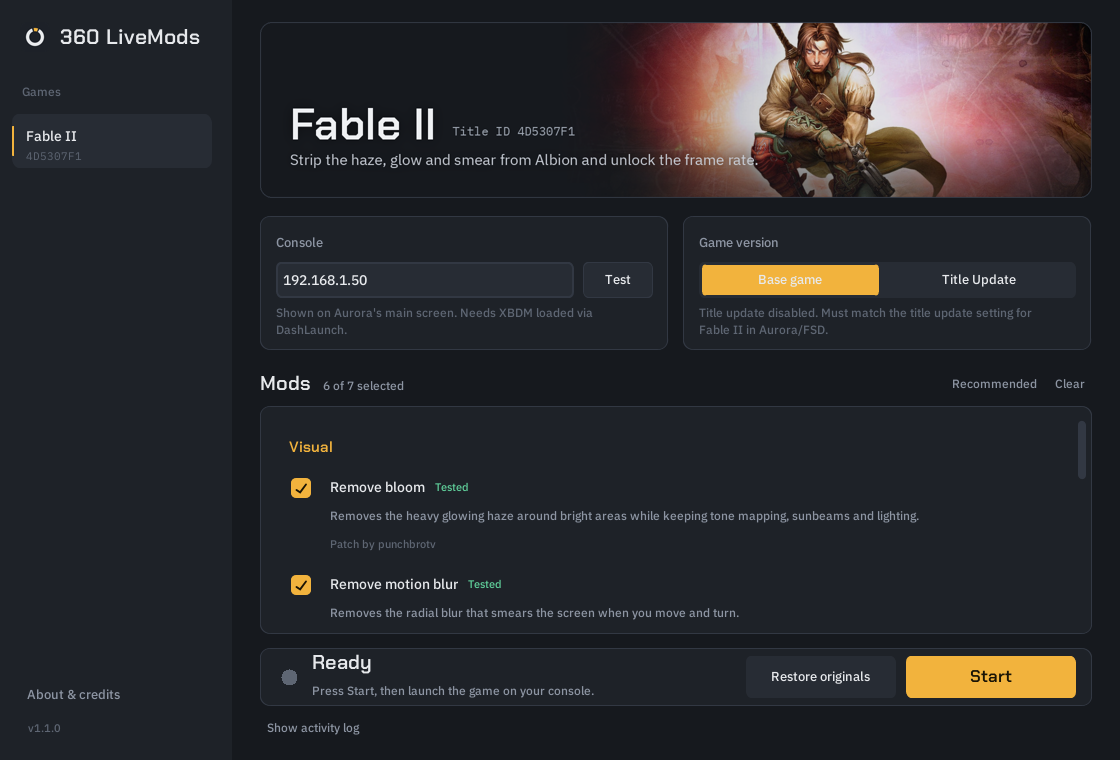
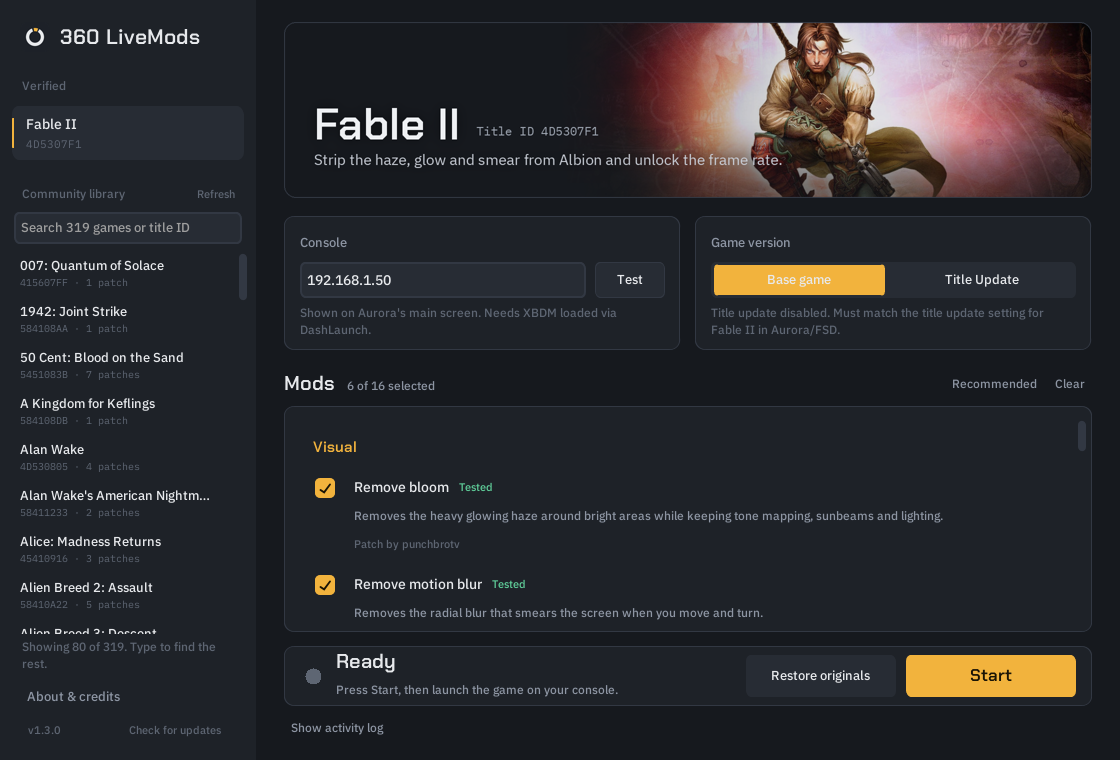
Library engine: dashboard/title hints, stale-hint protection, merge identical builds only; UI polish; screenshots
Claude-Session: https://claude.ai/code/session_01UoNjdapqW9fjrE7JTh5rqk

diff --git a/livemods/libengine.py b/livemods/libengine.py
@@ -34,7 +34,10 @@ MAX_UNKNOWN_SCANS = 2     # builds that never match are scanned at most this man
 POLL = 0.1
 CHANGE_CHECK_BYTES = 0x100000   # while scanning, check every MB that the game is still the same
 
-_DASHBOARD = re.compile(r"aurora|freestyle|\\fsd|fsd3|xexmenu|dashboard|\\dash\.xex|xshell", re.I)
+# Dashboards are recognised by their executable's name, or by the name of the folder it runs from
+# (never by words anywhere in the path: a game kept in "\FSD Games\..." is still a game).
+_DASHBOARD_EXE = re.compile(r"^(aurora|fsd\d?|freestyle\w*|xexmenu|dash|xshell|dashboard)\.xex$", re.I)
+_DASHBOARD_DIR = {"aurora", "freestyle", "freestyledash", "fsd", "fsd2", "fsd3", "xexmenu", "dashboard"}
 _GOD_TITLE = re.compile(r"\\content\\[0-9a-f]{16}\\([0-9a-f]{8})\\", re.I)
 
 
@@ -83,7 +86,8 @@ class LibraryEngine(Engine):
         """Do we know the original bytes at every patch site in this build's code?"""
         lo, hi = rec.get("code", (0, 0))
         orig = rec.get("originals", {})
-        return all(f"{w.address:08X}" in orig for p in build.patches for w in p.writes if lo <= w.address < hi)
+        return all(f"{w.address:08X}" in orig for p in build.patches for w in p.writes
+                   if lo <= w.address and w.address + len(w.data) <= hi)
 
     @staticmethod
     def _thunks(rec: dict) -> list[int]:
@@ -106,11 +110,16 @@ class LibraryEngine(Engine):
                 path = t.running_path() or ""
         except Exception:  # noqa: BLE001 - only a hint
             path = ""
-        where = f"{path} \\{snap.module.name}"
-        if _DASHBOARD.search(where):
-            return "dashboard", None
+        exe = path.replace("/", "\\").rsplit("\\", 1)[-1].lower()
+        if exe.endswith((".xex", ".exe")) and exe != snap.module.name.lower():
+            path = ""                       # describes something else (e.g. the previous title)
         m = _GOD_TITLE.search(path)
-        return ("title", m.group(1).upper()) if m else ("", None)
+        if m:
+            return "title", m.group(1).upper()
+        folder = path.replace("/", "\\").rsplit("\\", 2)[-2].lower() if path.count("\\") >= 1 else ""
+        if _DASHBOARD_EXE.match(snap.module.name) or folder in _DASHBOARD_DIR:
+            return "dashboard", None
+        return "", None
 
     # -------------------------------------------------------------- identify
     def _identify(self, host: str, x: XbdmClient, snap: Snap):
@@ -170,7 +179,9 @@ class LibraryEngine(Engine):
         rec = record_from_scan(scan, snap.module)
         hit = self._match(rec, title)
         if hit is None:
-            rec["unknown_scans"] = int((old or {}).get("unknown_scans", 0)) + 1
+            prev = old or {}
+            fresh = prev.get("seen", 0) < self.library.fetched_at      # library updated since
+            rec["unknown_scans"] = 1 if fresh else int(prev.get("unknown_scans", 0)) + 1
             self.cache.put(snap.fp, rec)
             self._emit("warn", f"The game that started (build {scan.hashes[0x10000]:016X}) isn't a version of "
                                f"{title.name} in the community library, so nothing was changed. If it is "
@@ -327,28 +338,28 @@ class LibraryEngine(Engine):
         x: XbdmClient | None = None
         first = True
         present: str | None = None          # fingerprint currently running
-        skip: set[str] = set()              # leave alone while it keeps running
-        dashboards: set[str] = set()        # leave alone for the whole run
-        hints: dict[str, tuple[str, str | None]] = {}
+        skip: set[str] = set()              # leave alone while it keeps running (dashboard, other game)
+        hints: dict[str, tuple[str, str | None]] = {}   # per appearance of a build
         relaunch: str | None = None         # identified this run; waiting for a fresh start of it
         relaunch_gone = False
         since = 0.0                         # when `present` appeared
         last_state, last_print, t0 = "", 0.0, time.time()
-        connected_before = False
+        lost = False
         self._emit("status", f"Waiting for {title.name}… launch it now")
         while not self.stopped:
             state = "Waiting for the game to start"
             try:
                 if x is None:
                     x = XbdmClient(host)
-                    if connected_before:
-                        self._emit("info", "Connected to console.")
-                    connected_before = True
                 snap = self._snapshot(x)
+                if lost:
+                    self._emit("info", "Connected to console.")
+                    lost = False
                 fp = snap.fp if snap else None
                 if fp != present:
                     if present is not None:
                         skip.discard(present)
+                        hints.pop(present, None)
                     present, since = fp, time.time()
                     if relaunch and fp != relaunch:
                         relaunch_gone = True
@@ -367,17 +378,22 @@ class LibraryEngine(Engine):
                             continue          # still loading: handled like a fresh launch
                         if fp not in hints:
                             hints[fp] = self._hint(snap)
-                        kind, _ = hints[fp]
-                        if kind == "dashboard":
-                            dashboards.add(fp)
-                        else:
+                        kind, tid = hints[fp]
+                        if kind == "dashboard" or (kind == "title" and tid != title.title_id):
+                            skip.add(fp)
+                        elif hit:
                             skip.add(fp)
                             self._emit("info", f"Something is already running ({snap.module.name}). If it's "
                                                f"{title.name}, quit it to the dashboard and start it again.")
+                        else:
+                            # possibly the game itself, already running: identifying is read-only, so
+                            # check it now instead of asking for an extra restart
+                            self._emit("info", f"Something is already running ({snap.module.name}) - checking "
+                                               f"whether it's {title.name}.")
                 elif fp is None:
                     if relaunch:
                         state = f"Waiting for {title.name} to start again"
-                elif fp in dashboards or fp in skip:
+                elif fp in skip:
                     if relaunch:
                         state = f"Waiting for {title.name} to start again"
                 elif fp == relaunch and not relaunch_gone:
@@ -399,23 +415,27 @@ class LibraryEngine(Engine):
                                 break
                             result = RunResult(failed=[])
                             continue
-                    elif rec and not hit and int(rec.get("unknown_scans", 0)) >= MAX_UNKNOWN_SCANS:
+                    elif rec and not hit and int(rec.get("unknown_scans", 0)) >= MAX_UNKNOWN_SCANS \
+                            and rec.get("seen", 0) >= self.library.fetched_at:
                         self._emit("warn", f"The game that started (build {rec.get('hashes', {}).get('65536', '?')}) "
                                            f"isn't a version of {title.name} in the community library.")
                         skip.add(fp)
                     else:
-                        if fp not in hints:
+                        settled = time.time() - since >= IDENTIFY_SETTLE
+                        if settled and fp not in hints:
+                            # asked only once it has settled: right after a launch, XBDM may still
+                            # describe the previous title (often the dashboard)
                             hints[fp] = self._hint(snap)
-                        kind, tid = hints[fp]
-                        if kind == "dashboard":
-                            dashboards.add(fp)
+                        kind, tid = hints.get(fp, ("", None))
+                        if not settled:
+                            state = "Game loading"
+                        elif kind == "dashboard":
+                            skip.add(fp)
                         elif kind == "title" and tid != title.title_id:
                             other = self.library.by_id.get(tid)
                             self._emit("error", f"That's {other.name if other else 'title ' + tid}, not "
                                                 f"{title.name}. Nothing was changed.")
                             skip.add(fp)
-                        elif time.time() - since < IDENTIFY_SETTLE:
-                            state = "Game loading"
                         else:
                             outcome = self._first_time(host, x, snap, title, rec)
                             if outcome == "identified":
@@ -440,6 +460,7 @@ class LibraryEngine(Engine):
                 if x:
                     x.close()
                 x = None
+                lost = True
                 state = f"Can't reach the console ({e.__class__.__name__}) - retrying"
             now_t = time.time()
             if state != last_state or now_t - last_print > 5:

diff --git a/tests/test_library.py b/tests/test_library.py
@@ -385,7 +385,7 @@ def test_relaunch_without_a_dashboard_module_in_between(lib, tmp_path):
 
 def test_dashboard_is_never_scanned(lib, tmp_path):
     cache = BuildCache(tmp_path / "b.json")
-    aurora = r"\Device\Harddisk0\Partition1\Apps\Aurora\Aurora.xex"
+    aurora = r"\Device\Harddisk0\Partition1\Apps\Aurora\default.xex"     # recognised by its folder
     tl = [(0, None), (0.2, DASH, "default.xex", aurora)] + boot(GAME_A, 0.5) + \
          [(4.0, DASH, "default.xex", aurora)] + boot(GAME_A, 8.0)
     r, ev, srv = run_engine(tl, lib, "4D530001", {"60 FPS"}, cache, stop_after=12)
@@ -463,3 +463,38 @@ def test_same_build_in_two_files_is_one_version(tmp_path):
     assert len(t.builds) == 1 and t.builds[0].label == "TU10; TU18"
     g = to_game(t)
     assert [m.name for m in g.mods] == ["A", "A (2)", "B"] and len(g.versions) == 1
+
+
+AUR = "\\Device\\Harddisk0\\Partition1\\Aurora\\Aurora.xex"
+
+
+def test_base_visible_long_before_title_update(lib, tmp_path):
+    cache = BuildCache(tmp_path / "b.json")
+    tl = [(0, None), (0.3, GAME_A), (2.5, GAME_A_TU), (2.8, resolved(GAME_A_TU)),
+          (6.0, None)] + boot(GAME_A_TU, 6.5)
+    r, ev, srv = run_engine(tl, lib, "4D530001", {"60 FPS"}, cache, stop_after=12)
+    assert srv.writes == [(0x82012350, bytes.fromhex("39600001"))], srv.writes
+
+def test_works_without_xbeinfo(lib, tmp_path, monkeypatch):
+    monkeypatch.setattr(xb.XbdmClient, "running_path", lambda self: None)
+    cache = BuildCache(tmp_path / "b.json")
+    tl = [(0, resolved(GAME_A)), (1.0, DASH, "Aurora.xex")] + boot(GAME_A, 1.5) \
+         + [(4.5, DASH, "Aurora.xex")] + boot(GAME_A, 5.0)
+    r, ev, srv = run_engine(tl, lib, "4D530001", {"60 FPS"}, cache, stop_after=10)
+    assert dict(srv.writes).get(0x82012340) == bytes.fromhex("39600001")
+
+def test_stale_xbeinfo_path_does_not_hide_the_game(lib, tmp_path):
+    """The game module is listed while XBDM still reports the dashboard as the running title."""
+    cache = BuildCache(tmp_path / "b.json")
+    tl = [(0, DASH, "Aurora.xex", AUR), (0.5, GAME_A, "default.xex", AUR), (0.7, resolved(GAME_A)),
+          (4.0, DASH, "Aurora.xex", AUR), (4.5, GAME_A, "default.xex", AUR), (4.7, resolved(GAME_A))]
+    r, ev, srv = run_engine(tl, lib, "4D530001", {"60 FPS"}, cache, stop_after=9)
+    assert srv.writes, "game misclassified as dashboard for the whole run"
+
+def test_other_library_game_then_selected_one(lib, tmp_path):
+    cache = BuildCache(tmp_path / "b.json")
+    tl = [(0, DASH, "Aurora.xex", AUR)] + boot(OTHER, 0.3) + [(3.0, DASH, "Aurora.xex", AUR)] + boot(GAME_A, 3.5) \
+         + [(6.5, DASH, "Aurora.xex", AUR)] + boot(GAME_A, 7.0)
+    r, ev, srv = run_engine(tl, lib, "4D530001", {"60 FPS"}, cache, stop_after=12)
+    assert all(a != 0x82011000 for a, _ in srv.writes)
+    assert dict(srv.writes).get(0x82012340) == bytes.fromhex("39600001")

diff --git a/livemods/library.py b/livemods/library.py
@@ -241,10 +241,9 @@ def load_library(folder: Path | None = None) -> Library:
         t = titles.setdefault(tid, LibTitle(tid, name))
         if len(name) < len(t.name) or not t.name:
             t.name = name                      # several files per game: keep the plainest name
-        same = next((b for b in t.builds if set(b.hashes) & set(build.hashes)), None)
+        same = next((b for b in t.builds if set(b.hashes) == set(build.hashes)), None)
         if same:                               # two files for the same build (e.g. TU10 and TU18
             same.patches += build.patches      # sharing an executable): one version, all patches
-            same.hashes += [h for h in build.hashes if h not in same.hashes]
             if build.label not in same.label.split("; "):
                 same.label += f"; {build.label}"
             same.file += f"; {build.file}"
@@ -346,7 +345,11 @@ def _swap_in(new: Path, folder: Path) -> None:
         raise
     shutil.rmtree(old, ignore_errors=True)
     for stale in folder.parent.glob(f"{folder.name}.*-*"):    # leftovers from interrupted updates
-        shutil.rmtree(stale, ignore_errors=True)
+        try:
+            if time.time() - stale.stat().st_mtime > 3600:
+                shutil.rmtree(stale, ignore_errors=True)
+        except OSError:
+            pass
 
 
 # ------------------------------------------------------------------------ app model

diff --git a/livemods/gui.py b/livemods/gui.py
@@ -541,8 +541,8 @@ class App(ctk.CTk):
         self.act = act
         self.led = Led(act, size=22)
         self.led.grid(row=0, column=0, padx=(18, 12), pady=18)
-        st = ctk.CTkFrame(act, fg_color="transparent")
-        st.grid(row=0, column=1, sticky="ew")
+        st = ctk.CTkFrame(act, fg_color=C["panel"], corner_radius=0)
+        st.grid(row=0, column=1, sticky="ew", pady=2)
         st.bind("<Configure>", lambda e: (self._wrap_to(self.status_sub, e.width, 0),
                                           self._wrap_to(self.status, e.width, 0)), add="+")
         self.status = ctk.CTkLabel(st, text="Ready", font=F.d(20), text_color=C["text"], anchor="w", justify="left")

diff --git a/README.md b/README.md
@@ -37,6 +37,10 @@ computes that same hash (about a minute, once per version). Patches are only app
 matches, so a patch can never land on the wrong version. From then on the game is recognised the
 moment it loads and patched before it runs.
 
+<p align="center">
+  <img src="docs/screenshot-library.png" width="720" alt="A community library game">
+</p>
+
 Library patches were written for the Xenia emulator and most haven't been tried on a real console,
 so they're marked **Community**. Patches that only work around emulator problems are marked
 **Emulator fix** and ask before you enable them. If a game crashes, untick the patches you added last.
